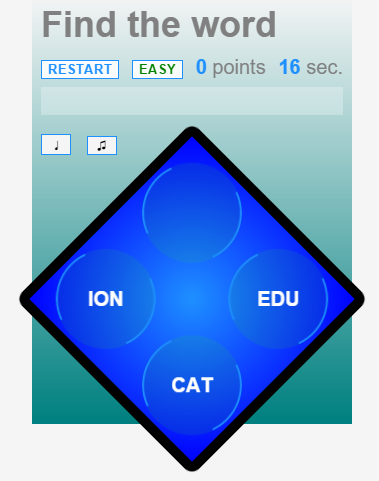
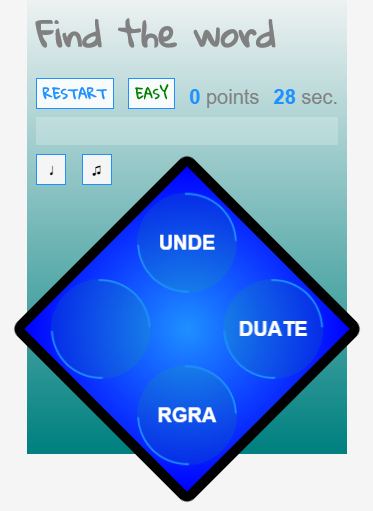
upd font

diff --git a/src/cordova/www/index.html b/src/cordova/www/index.html
@@ -14,6 +14,7 @@
         <meta name="format-detection" content="telephone=no">
         <meta name="msapplication-tap-highlight" content="no">
         <meta name="viewport" content="user-scalable=no, initial-scale=1, maximum-scale=1, minimum-scale=1, width=device-width">
+        <link rel="stylesheet" href="//fonts.googleapis.com/css?family=Gloria+Hallelujah">
         <link rel="stylesheet" type="text/css" href="assets/styles/app.css">
         <title>Find the word puzzle game</title>
     </head>

diff --git a/src/web/index.html b/src/web/index.html
@@ -6,6 +6,7 @@
     <meta charset="utf-8">
     <meta name="viewport" content="width=device-width, initial-scale=1">
     <title>Find the word puzzle game</title>
+    <link rel="stylesheet" href="//fonts.googleapis.com/css?family=Gloria+Hallelujah">
     <link rel="stylesheet" href="assets/styles/app.css?v=1">    
 </head>
 
